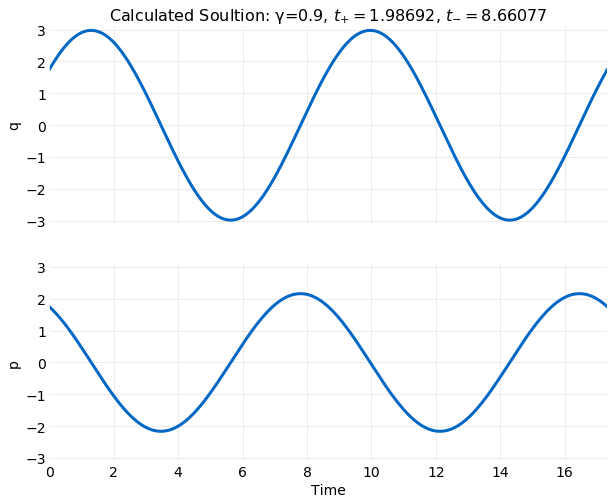
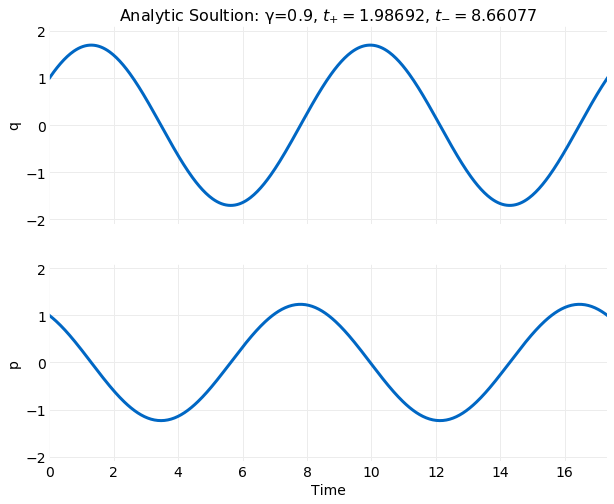
fixed error in potential energy calculation

diff --git a/hydrogen_notebooks/mcmc/hamiltonian_monte_carlo/binariate_normal/hamiltons_equations_solution_validation.py b/hydrogen_notebooks/mcmc/hamiltonian_monte_carlo/binariate_normal/hamiltons_equations_solution_validation.py
@@ -34,6 +34,15 @@ def eigenvector_matrix(γ, α):
         m[:,i] = m[:,i] / linalg.norm(m[:,i])
     return m
 
+def eigenvector_matrix_unnormalized(γ, α):
+    ω_plus = numpy.complex(0.0, numpy.sqrt(α*(1.0 + γ)))
+    ω_minus = numpy.complex(0.0, numpy.sqrt(α*(1.0 - γ)))
+    m = [[ω_plus, numpy.conj(ω_plus), ω_minus, numpy.conj(ω_minus)],
+         [numpy.conj(ω_plus), ω_plus, ω_minus, numpy.conj(ω_minus)],
+         [1.0, 1.0, 1.0, 1.0],
+         [-1.0, -1.0, 1.0, 1.0]]
+    return numpy.matrix(m)
+
 def eigenvalues(γ, α):
     ω_plus = numpy.complex(0.0, numpy.sqrt(α*(1.0 + γ)))
     ω_minus = numpy.complex(0.0, numpy.sqrt(α*(1.0 - γ)))
@@ -128,16 +137,11 @@ title = f"Calculated Soultion: γ={γ}, " + r"$t_{+}=$" + f"{format(t_plus, '2.5
 phase_space_time_series(title, PQ, time, [-2.1, 2.1], "binvariate_normal_verification_calculated_09_1")
 
 # %%
-
-H = total_energy(PQ, U, K)
-hmc.time_series(title, H, time, [-1.0, 20.0], "binvariate_normal_verification_hamiltonian-timeseries-1")
-
-# %%
 # Compute coefficients for solution using intial conditions
 λ = eigenvalues(γ, α)
-E = eigenvector_matrix(γ, α)
-Einv = linalg.inv(E)
-C = Einv * PQ0
+UE = eigenvector_matrix_unnormalized(γ, α)
+UEinv = linalg.inv(UE)
+C = UEinv * PQ0
 CR = numpy.real(C[2,0])
 CI = numpy.imag(C[2,0])
 
@@ -145,5 +149,19 @@ CI = numpy.imag(C[2,0])
 
 p = lambda t: -2*ω_minus*(CI*numpy.cos(ω_minus*t) + CR*numpy.sin(ω_minus*t))
 q = lambda t: 2*(CR*numpy.cos(ω_minus*t) - CI*numpy.sin(ω_minus*t))
-title = f"Calculated Soultion: γ={γ}, " + r"$t_{+}=$" + f"{format(t_plus, '2.5f')}, " + r"$t_{-}=$" + f"{format(t_minus, '2.5f')}"
-verification_time_series(title, p, q, time, [-3.1, 3.1], "binvariate_normal_analytic_calculated_09_1")
+title = f"Analytic Soultion: γ={γ}, " + r"$t_{+}=$" + f"{format(t_plus, '2.5f')}, " + r"$t_{-}=$" + f"{format(t_minus, '2.5f')}"
+verification_time_series(title, p, q, time, [-2.1, 2.1], "binvariate_normal_analytic_calculated_09_1")
+
+# %%
+H = 4.0*ω_minus**2*(CR**2+CI**2)
+title = f"Analytic Soultion: H={format(H, '2.5f')}"
+Kt = numpy.array([p(t)**2 for t in time])
+Ut = numpy.array([ω_minus**2*q(t)**2 for t in time])
+
+hmc.multicurve(title, [Kt, Ut, Kt+Ut], time, "Time", "Energy", ["K", "U", "H"], (0.8, 0.8), [-0.1, 2.0], "binvariate_normal_analytic_hamiltonian-timeseries-1")
+
+
+# %%
+
+H = total_energy(PQ, U, K)
+hmc.time_series(title, H, time, [-0.1, 2.0], "binvariate_normal_verification_hamiltonian-timeseries-1")

diff --git a/glyfish/hamiltonian_monte_carlo.py b/glyfish/hamiltonian_monte_carlo.py
@@ -52,9 +52,9 @@ def leapfrog(p0, q0, ndim, dUdq, dKdp, nsteps, ε):
 # Unit Normal distribution. The Potential and Kinetic Energy are given by assuming a mass of 1
 
 def bivariate_normal_U(γ, σ1, σ2):
-    scale = σ1**2*σ2**2*(1.0 - γ)
+    scale = σ1**2*σ2**2*(1.0 - γ**2)
     def f(q):
-        return ((q[0]*σ2)**2 + (q[1]*σ1)**2 - q[0]*q[1]*σ1*σ2*γ) / (2.0*scale)
+        return ((q[0]*σ2)**2 + (q[1]*σ1)**2 - 2.0*q[0]*q[1]*σ1*σ2*γ) / (2.0*scale)
     return f
 
 def bivariate_normal_K(m1, m2):
@@ -63,18 +63,18 @@ def bivariate_normal_K(m1, m2):
     return f
 
 def bivariate_normal_dUdq(γ, σ1, σ2):
-    scale = σ1**2*σ2**2*(1.0 - γ)
+    scale = σ1**2*σ2**2*(1.0 - γ**2)
     def f(q, n, i, is_first_step):
         if i == 0:
             if is_first_step:
-                return (q[n][0]*σ2**2 - q[n][1]*γ*σ1*σ2) / scale
+                return (q[n][0]*σ2**2 - 2.0*q[n][1]*γ*σ1*σ2) / scale
             else:
-                return (q[n+1][0]*σ2**2 - q[n][1]*γ*σ1*σ2) / scale
+                return (q[n+1][0]*σ2**2 - 2.0*q[n][1]*γ*σ1*σ2) / scale
         elif i == 1:
             if is_first_step:
-                return (q[n][1]*σ1**2 - q[n+1][0]*γ*σ1*σ2) / scale
+                return (q[n][1]*σ1**2 - 2.0*q[n+1][0]*γ*σ1*σ2) / scale
             else:
-                return (q[n+1][1]*σ1**2 - q[n+1][0]*γ*σ1*σ2) / scale
+                return (q[n+1][1]*σ1**2 - 2.0*q[n+1][0]*γ*σ1*σ2) / scale
     return f
 
 def bivariate_normal_dKdp(m1, m2):
